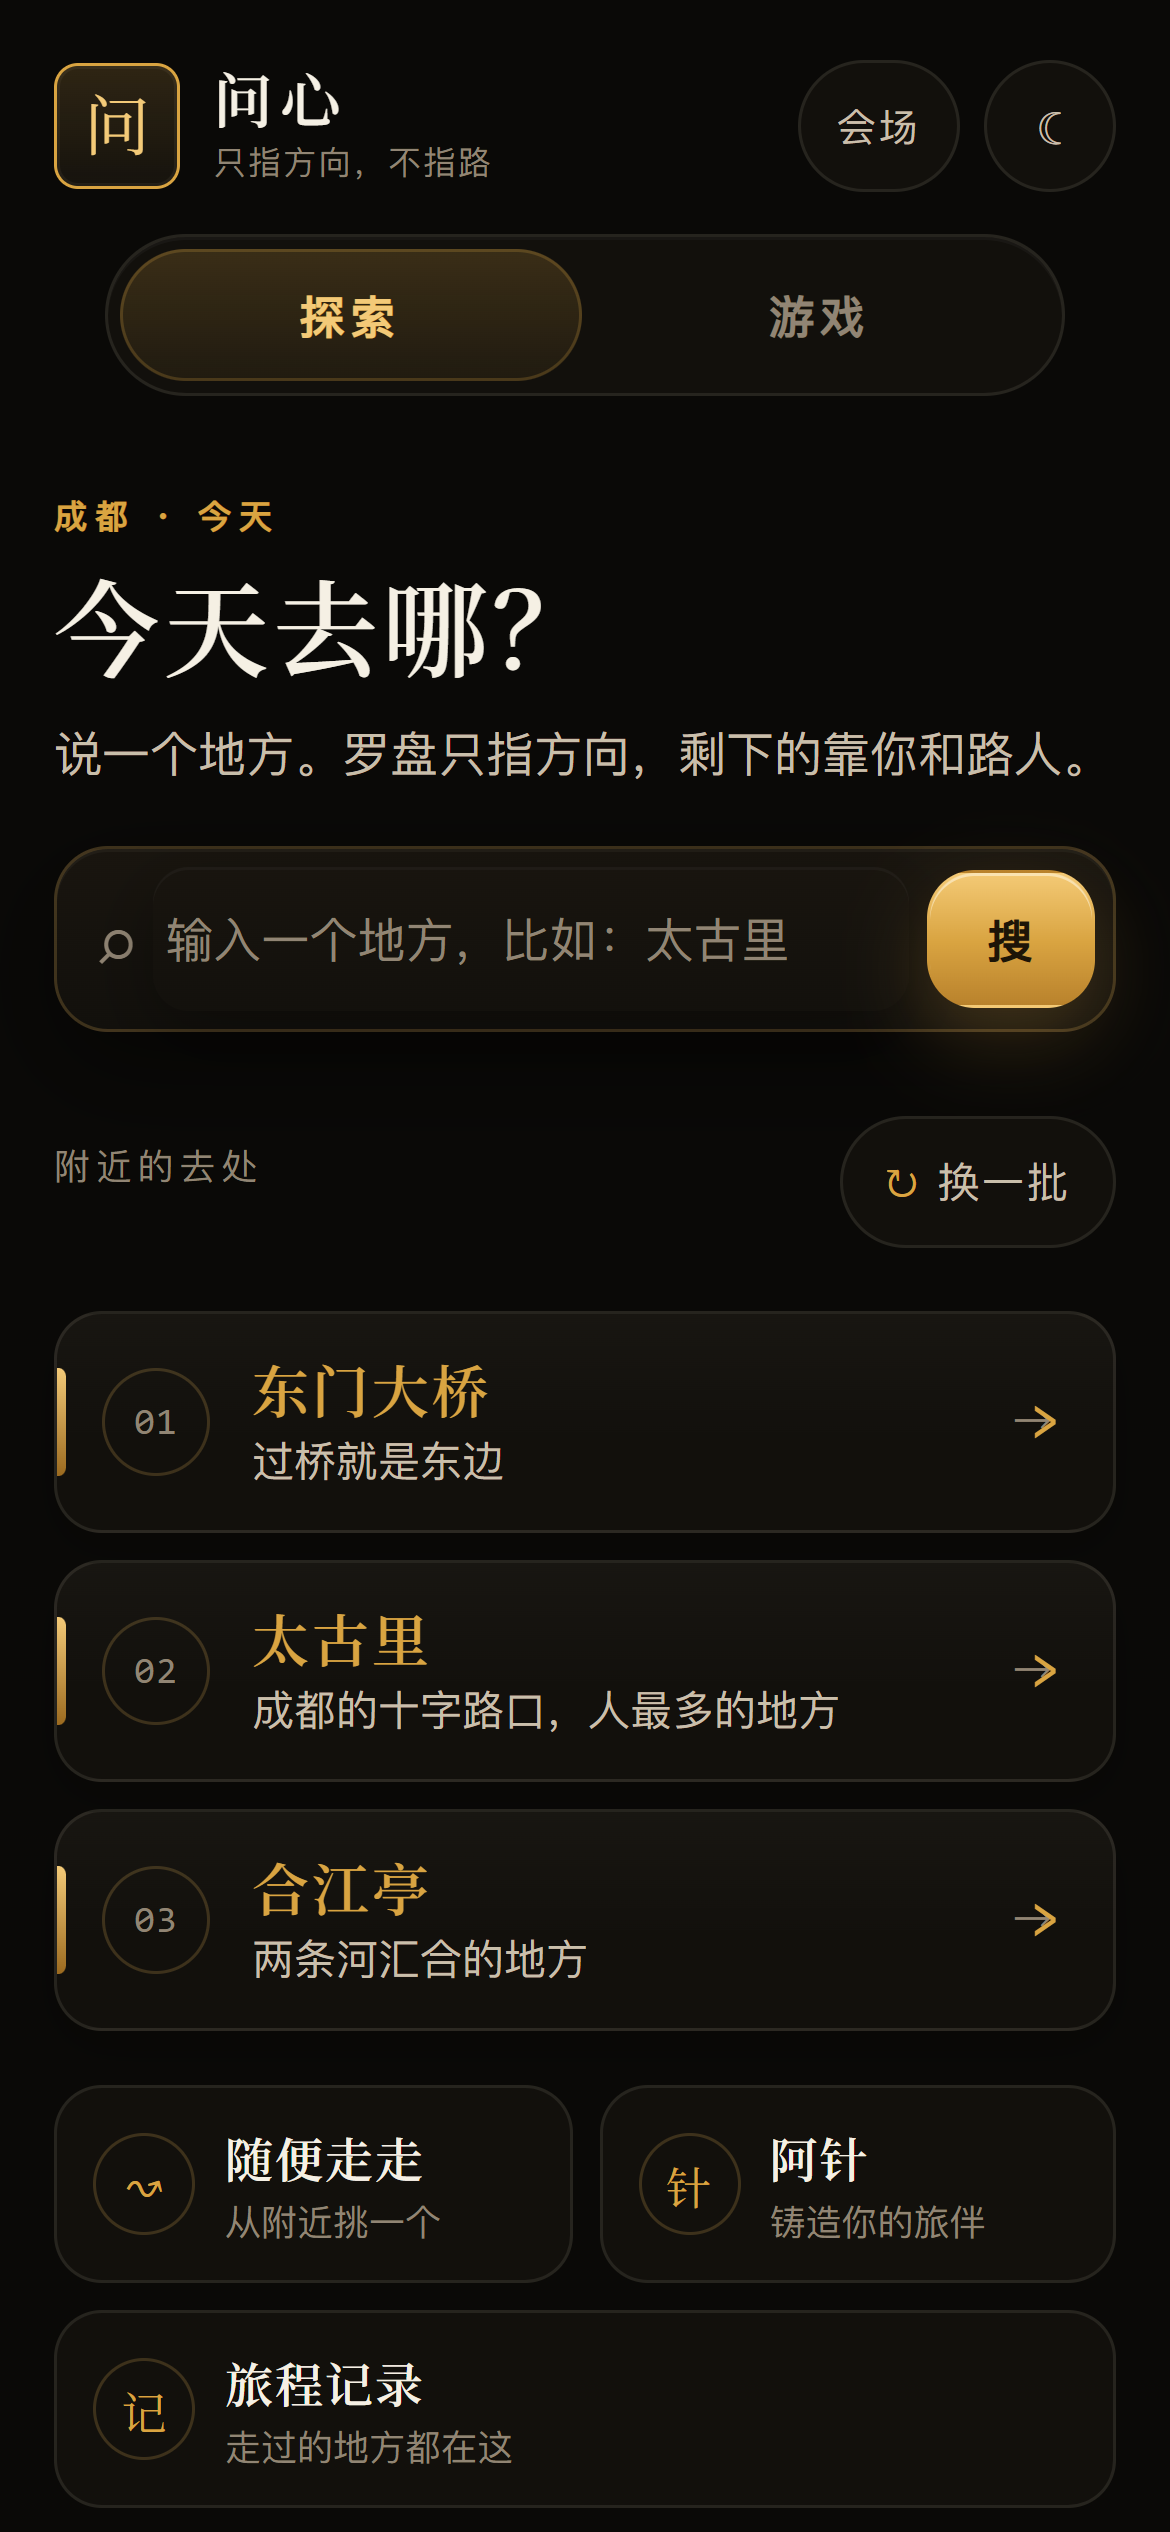
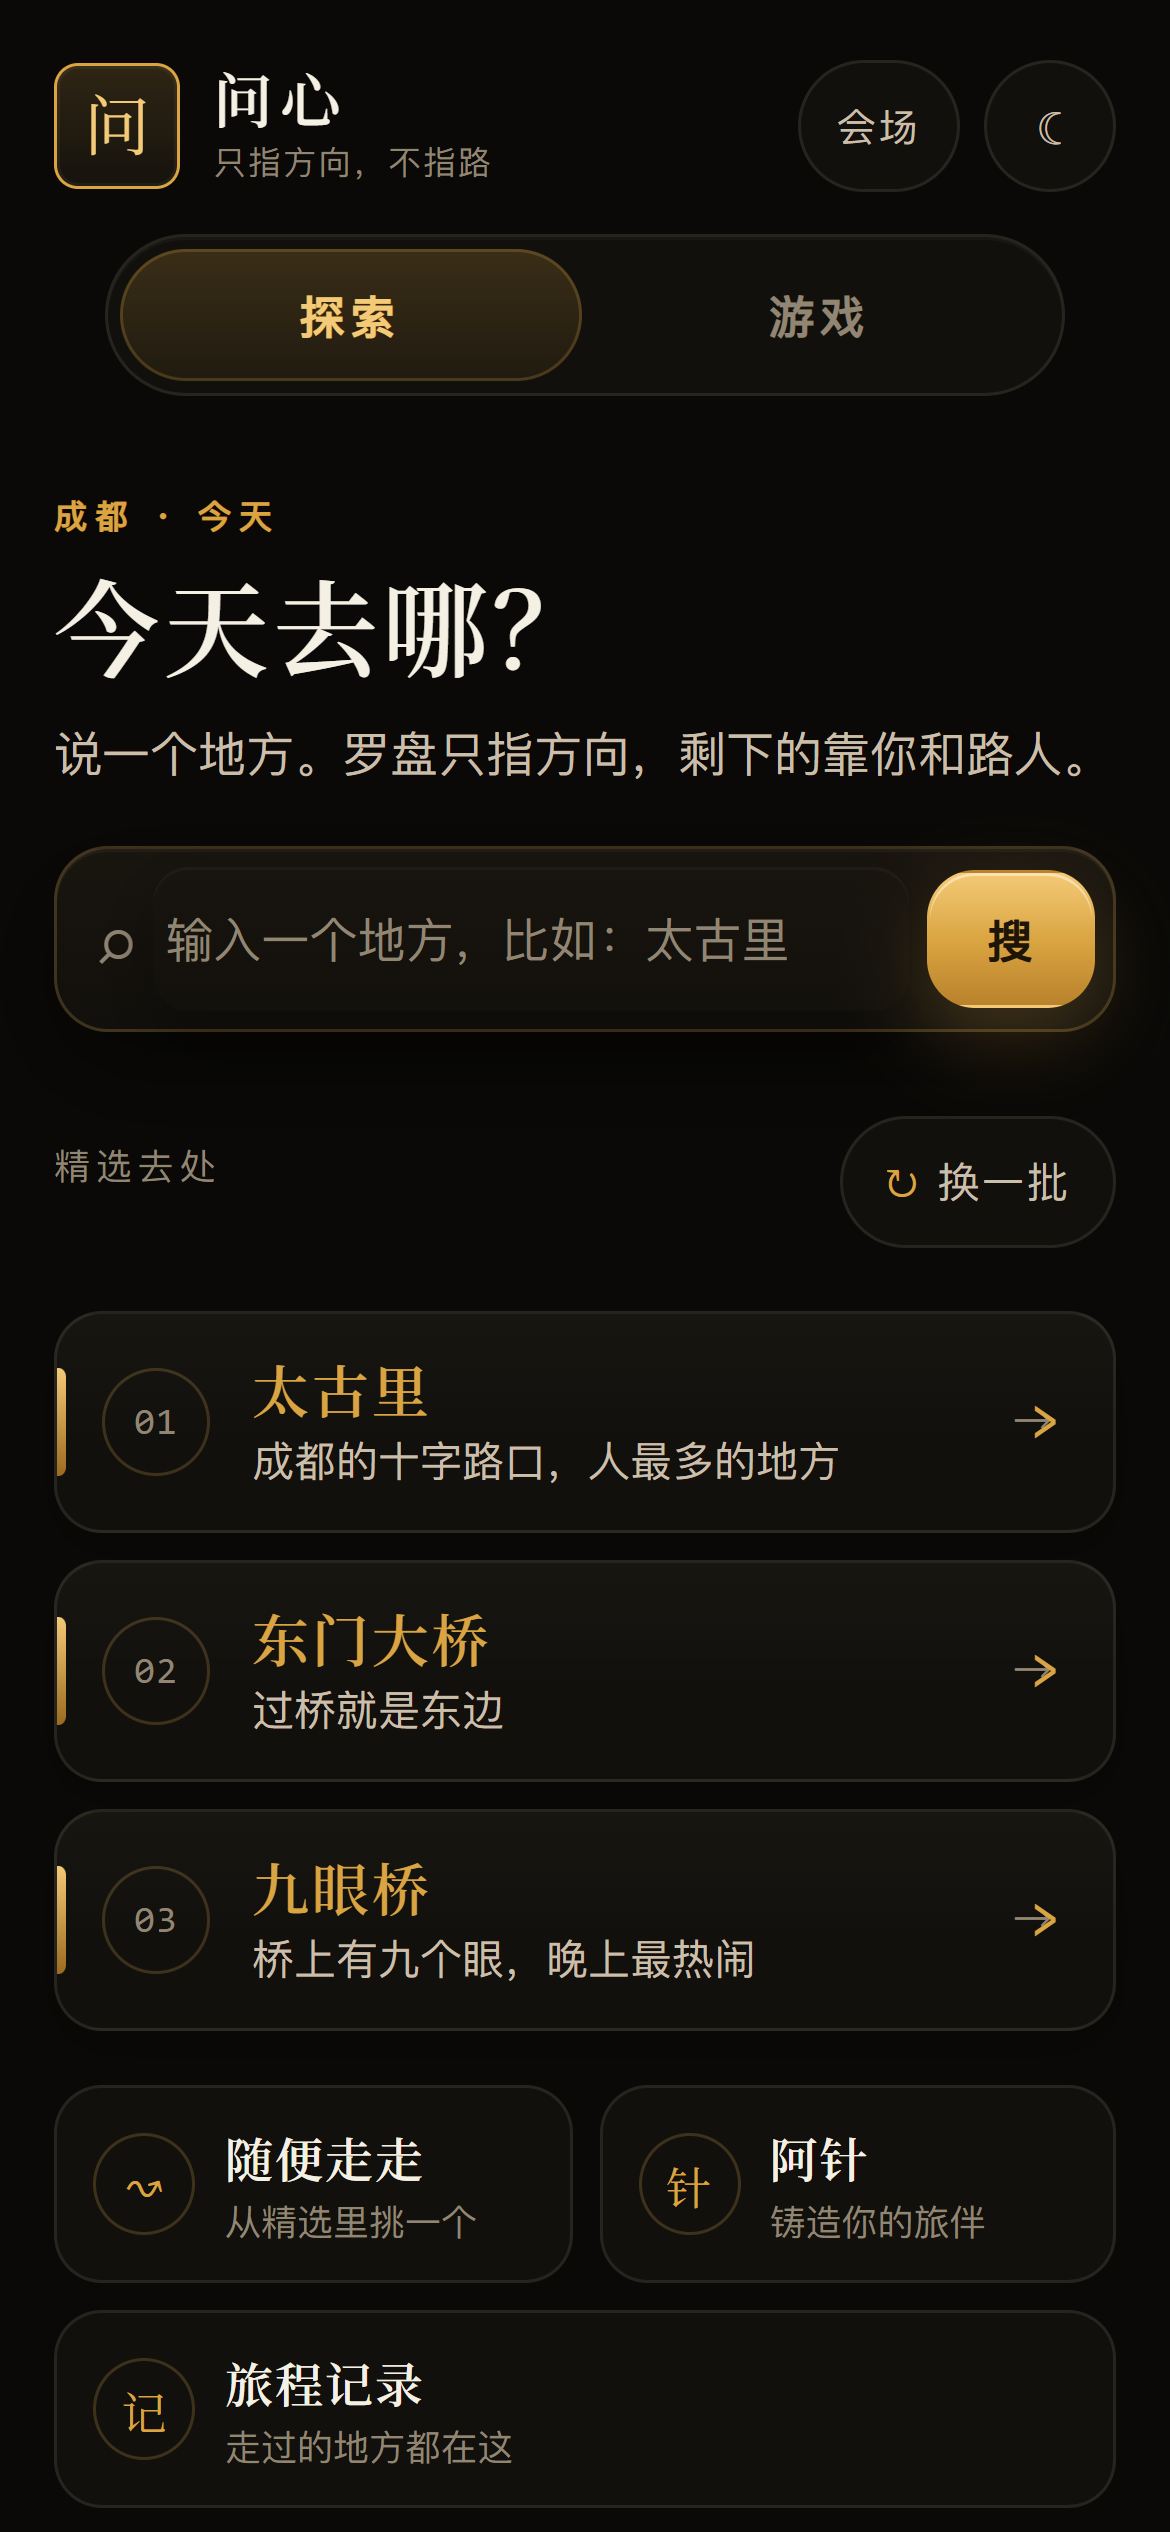
docs: 首页截图跟上新文案；补录屏速查与日记走查坑
- 重拍 screenshots/01-home.png：线上已是「精选去处」，旧图还写着「附近的去处」
- video-script 补四条走查地址；记下 ?preview=end 点「写日记」会空，
  拍日记要用 ?preview=diary（实测能出 99 字正文）

diff --git a/submission/video-script.md b/submission/video-script.md
@@ -41,6 +41,21 @@
 
 ---
 
+## 录屏速查（页面自带走查参数，不改变产品逻辑）
+
+| 要拍哪屏 | 地址 |
+|---|---|
+| 首页 | `https://capibala160.github.io/waytoagi-1024/v2/` |
+| 行进 / 罗盘 | `…/v2/?preview=play&still=1` |
+| 抵达结果 | `…/v2/?preview=end&still=1` |
+| 日记 | `…/v2/?preview=diary&still=1` |
+
+**坑（2026-10-25 实测）**：从 `?preview=end` 直接点「写日记」会提示「还没有可写的一局」——因为走查参数只填了结算数字，没填日记数据。拍日记用 `?preview=diary`；真玩一局走到底再点「写日记」也是正常的。`?preview=diary` 下点「生成日记」已实测能出正文（99 字，含《太古里》和时间线）。
+
+`still=1` 关掉淡入动画，否则录到的第一帧是透明的。
+
+---
+
 ## 字幕文件
 
 把「旁白」一列直接导进剪映/PR 的字幕轨即可，一行一条，不需要再断句。
